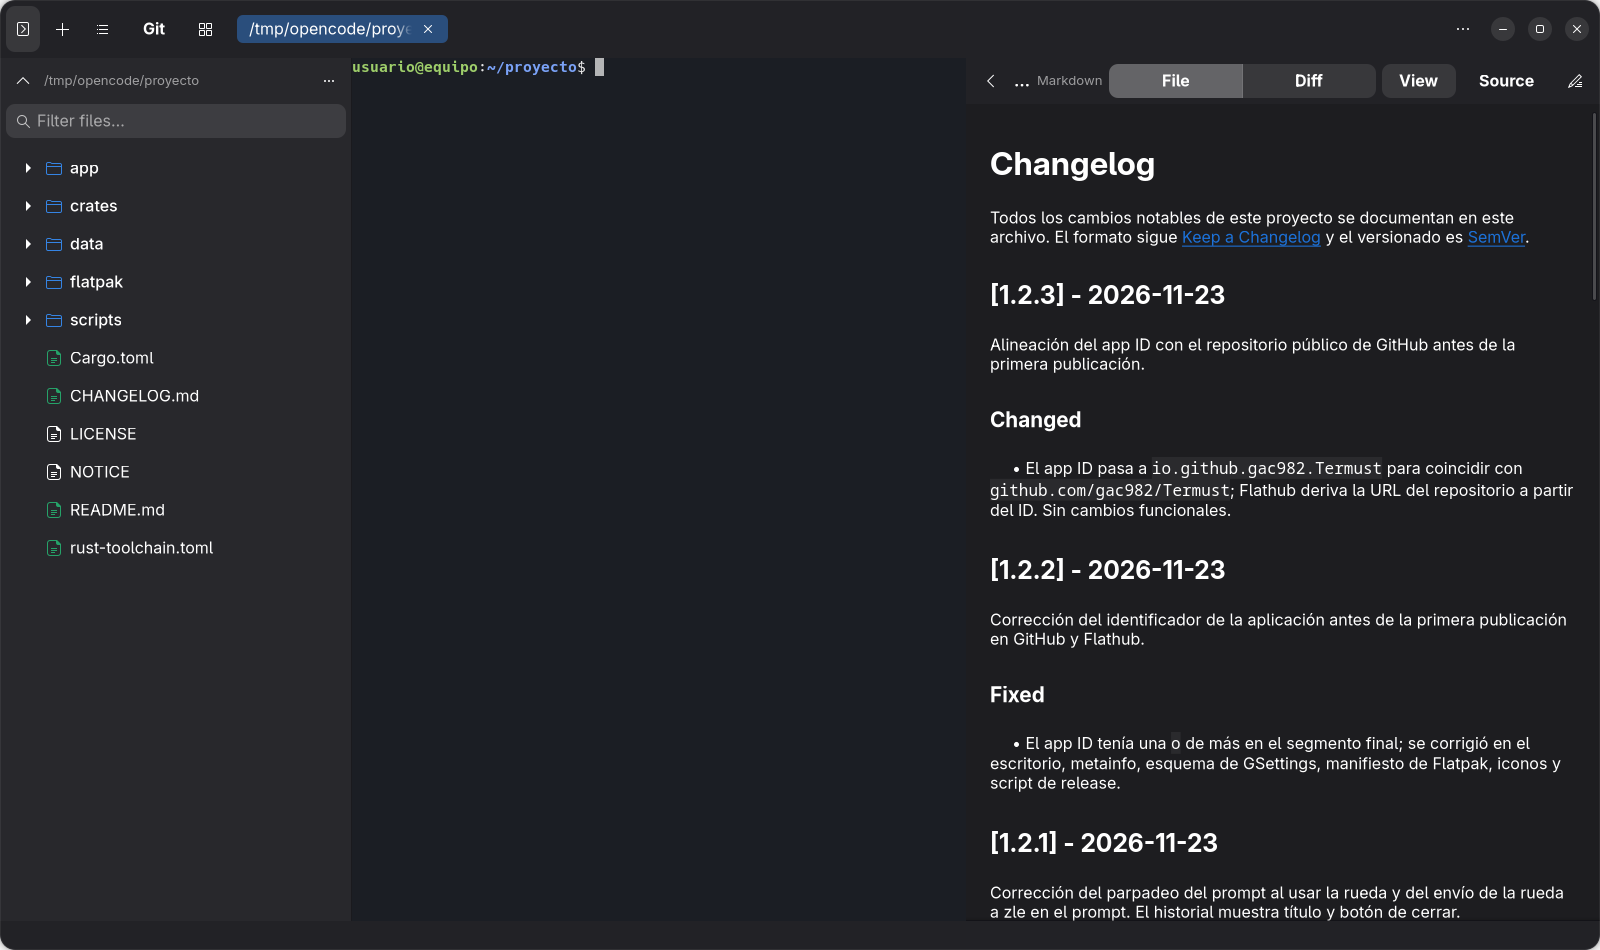
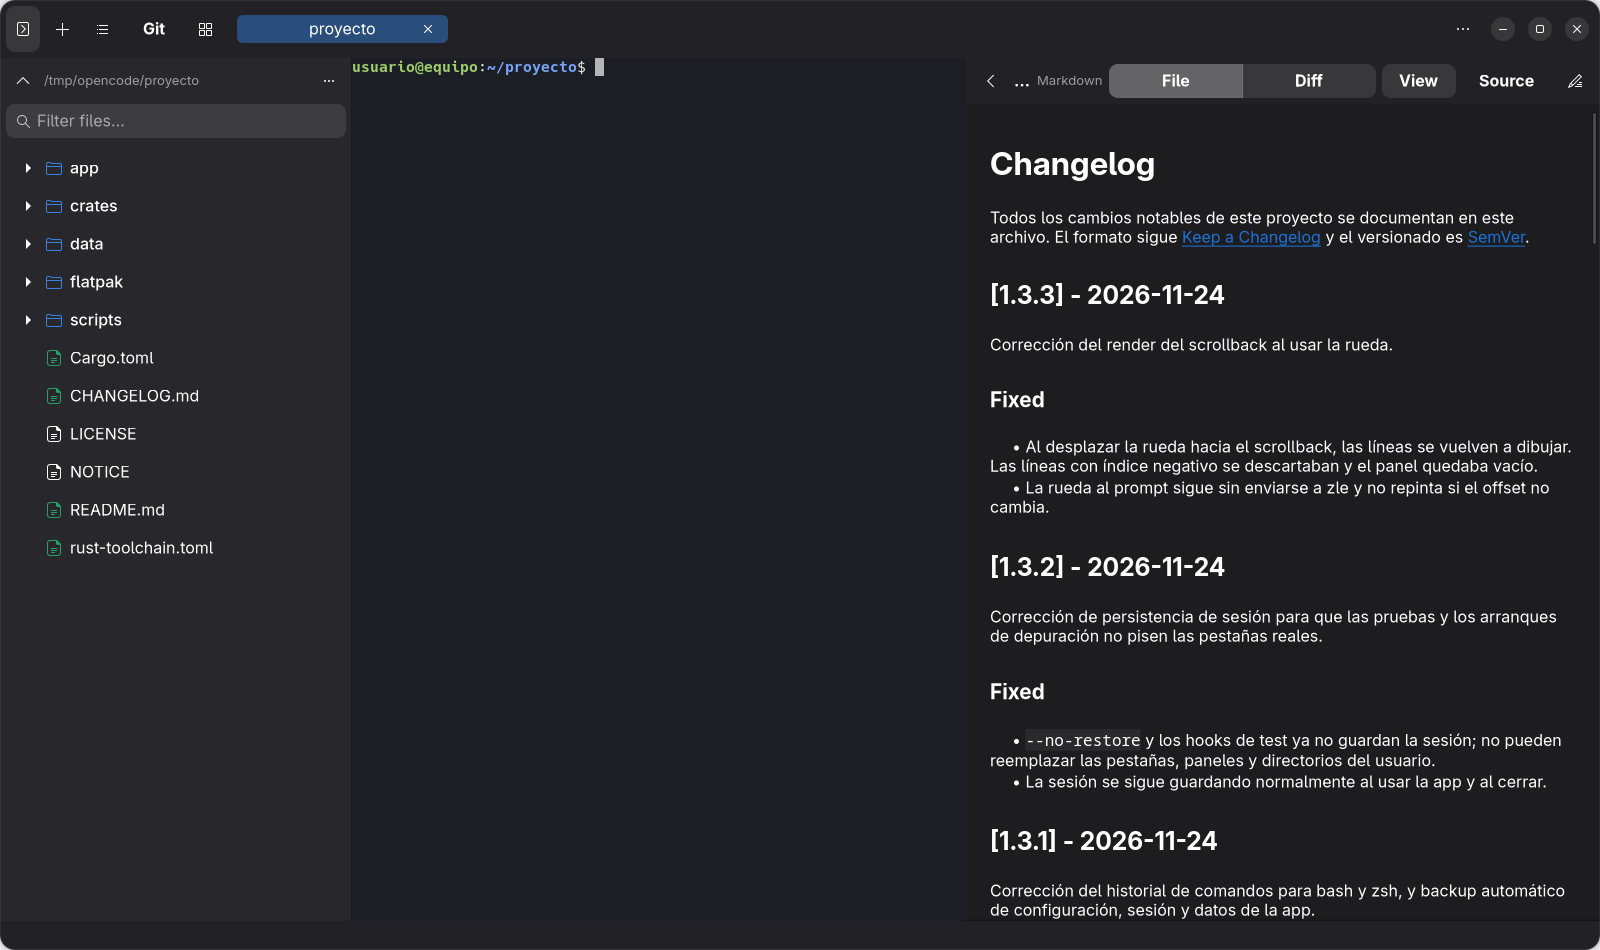
feat(tabs): show the current directory name in tab titles
Prefer a manual tab name, otherwise use basename(cwd); the full OSC/path stays
in the tab tooltip and window title. Add core regression tests.

diff --git a/app/src/tabs.rs b/app/src/tabs.rs
@@ -14,7 +14,7 @@ use termust_core::tabs::{
     TabModel,
 };
 use termust_core::terminal::Size;
-use termust_core::title::display_title;
+use termust_core::title::{display_title, tab_label};
 use termust_host_exec::{shell_command, ShellIntegration};
 use termust_pty_unix::UnixPtySpawner;
 use termust_render_cairo::CairoRenderer;
@@ -198,12 +198,12 @@ impl TabManager {
         tab_id: TabId,
         pane_cwds: HashMap<PaneId, PathBuf>,
     ) -> Result<(), String> {
-        let (cwd, title) = {
+        let (cwd, label) = {
             let model = self.model.borrow();
             let tab = model
                 .get(tab_id)
                 .ok_or_else(|| i18n::tr("tab does not exist"))?;
-            (tab.cwd.clone(), tab.title_override.clone())
+            (tab.cwd.clone(), tab_label(tab))
         };
         let container = gtk::Box::new(gtk::Orientation::Vertical, 0);
         container.set_hexpand(true);
@@ -213,7 +213,7 @@ impl TabManager {
         placeholder.set_vexpand(true);
         container.append(&placeholder);
         let page = self.tab_view.append(&container);
-        page.set_title(title.as_deref().unwrap_or("Terminal"));
+        page.set_title(&label);
         page.set_tooltip(&cwd.display().to_string());
         self.entries.push(Entry {
             id: tab_id,
@@ -233,16 +233,12 @@ impl TabManager {
         if self.entries[index].attached {
             return Ok(());
         }
-        let (layout, tab_cwd, title_override) = {
+        let (layout, tab_cwd, label) = {
             let model = self.model.borrow();
             let tab = model
                 .get(tab_id)
                 .ok_or_else(|| i18n::tr("tab does not exist"))?;
-            (
-                tab.layout.clone(),
-                tab.cwd.clone(),
-                tab.title_override.clone(),
-            )
+            (tab.layout.clone(), tab.cwd.clone(), tab_label(tab))
         };
 
         let resolved: Vec<(PaneId, PathBuf)> = layout
@@ -289,7 +285,7 @@ impl TabManager {
         entry.panes = panes;
         entry.attached = true;
         let page = entry.page.clone();
-        page.set_title(title_override.as_deref().unwrap_or("Terminal"));
+        page.set_title(&label);
         page.set_tooltip(&tab_cwd.display().to_string());
 
         schedule_positions(positions);
@@ -1134,14 +1130,14 @@ impl TabManager {
                     }
                 }
             }
-            let spec = {
+            let (spec, label) = {
                 let model = self.model.borrow();
                 let Some(tab) = model.get(update.tab_id) else {
                     continue;
                 };
-                display_title(tab, None)
+                (display_title(tab, None), tab_label(tab))
             };
-            update.page.set_title(&spec.text);
+            update.page.set_title(&label);
             let mut tooltip = spec.tooltip;
             for line in update.panes {
                 tooltip.push('\n');

diff --git a/crates/core/src/title.rs b/crates/core/src/title.rs
@@ -47,6 +47,24 @@ pub fn display_title(tab: &Tab, foreground: Option<&str>) -> TitleSpec {
     }
 }
 
+/// Texto de la pestaña: nombre manual o basename(cwd), nunca la ruta completa
+/// ni el título OSC. Así se ve el directorio actual aunque el shell ponga
+/// `user@host:~/ruta` como título de ventana.
+pub fn tab_label(tab: &Tab) -> String {
+    let mut full = tab
+        .title_override
+        .as_deref()
+        .map(sanitize)
+        .unwrap_or_default();
+    if full.is_empty() {
+        full = sanitize(&basename(&tab.cwd));
+    }
+    if full.is_empty() {
+        full = "Terminal".to_string();
+    }
+    truncate_middle(&full, DISPLAY_TITLE_CHARS)
+}
+
 /// p10k/oh-my-zsh suelen poner `user@host:~/ruta` como título; la ruta sola
 /// es más útil y ocupa menos en la pestaña.
 fn shorten_shell_title(input: &str) -> &str {
@@ -144,6 +162,30 @@ mod tests {
     fn cwd_basename_fallback() {
         let t = tab("/home/u/repo");
         assert_eq!(display_title(&t, None).full, "repo");
+    }
+
+    #[test]
+    fn tab_label_prefers_directory_over_osc() {
+        let mut m = TabModel::new("/home/u/repo");
+        let id = m.active_id();
+        m.set_osc_title(id, "gustavo@host:~/repo");
+        assert_eq!(tab_label(m.active()), "repo");
+    }
+
+    #[test]
+    fn tab_label_override_wins() {
+        let mut m = TabModel::new("/home/u/repo");
+        let id = m.active_id();
+        m.rename(id, Some("manual".into()));
+        assert_eq!(tab_label(m.active()), "manual");
+    }
+
+    #[test]
+    fn tab_label_empty_override_falls_back_to_cwd() {
+        let mut m = TabModel::new("/home/u/repo");
+        let id = m.active_id();
+        m.rename(id, Some("   ".into()));
+        assert_eq!(tab_label(m.active()), "repo");
     }
 
     #[test]
